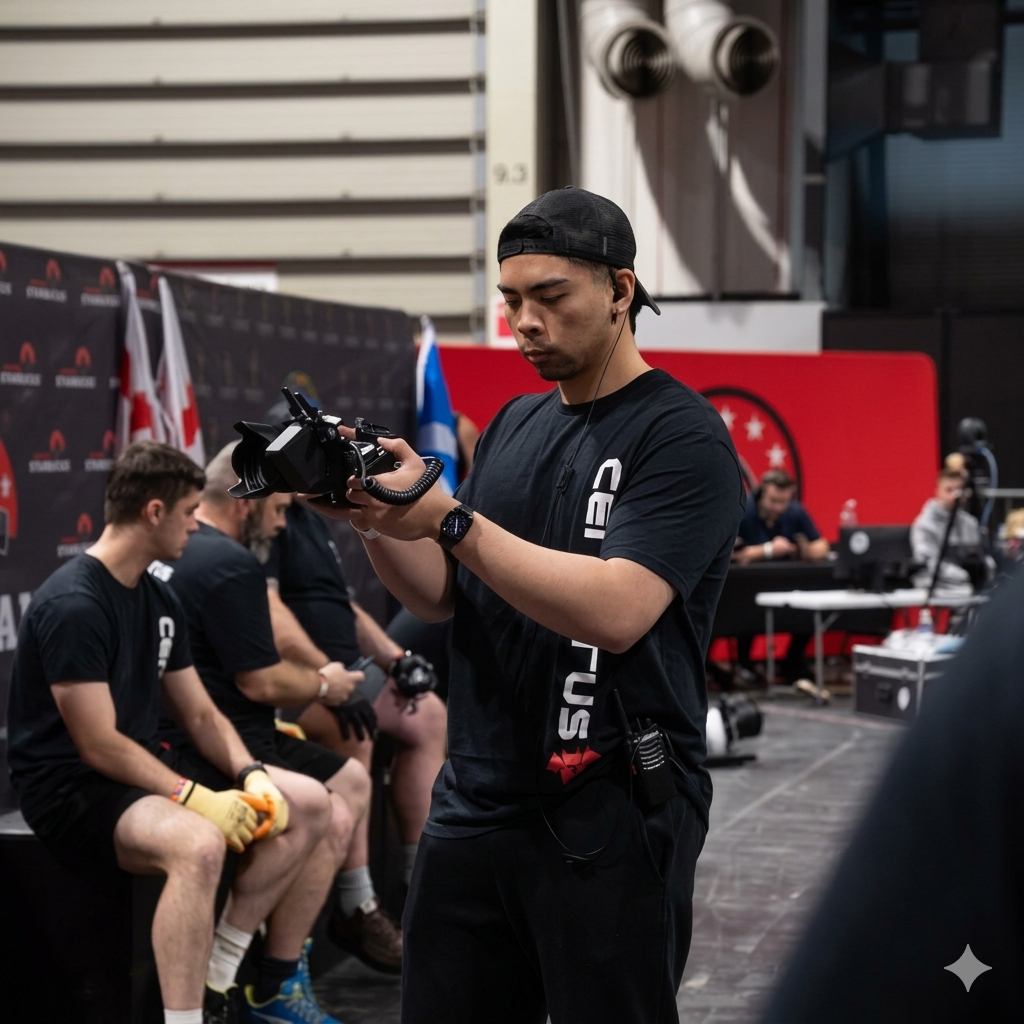
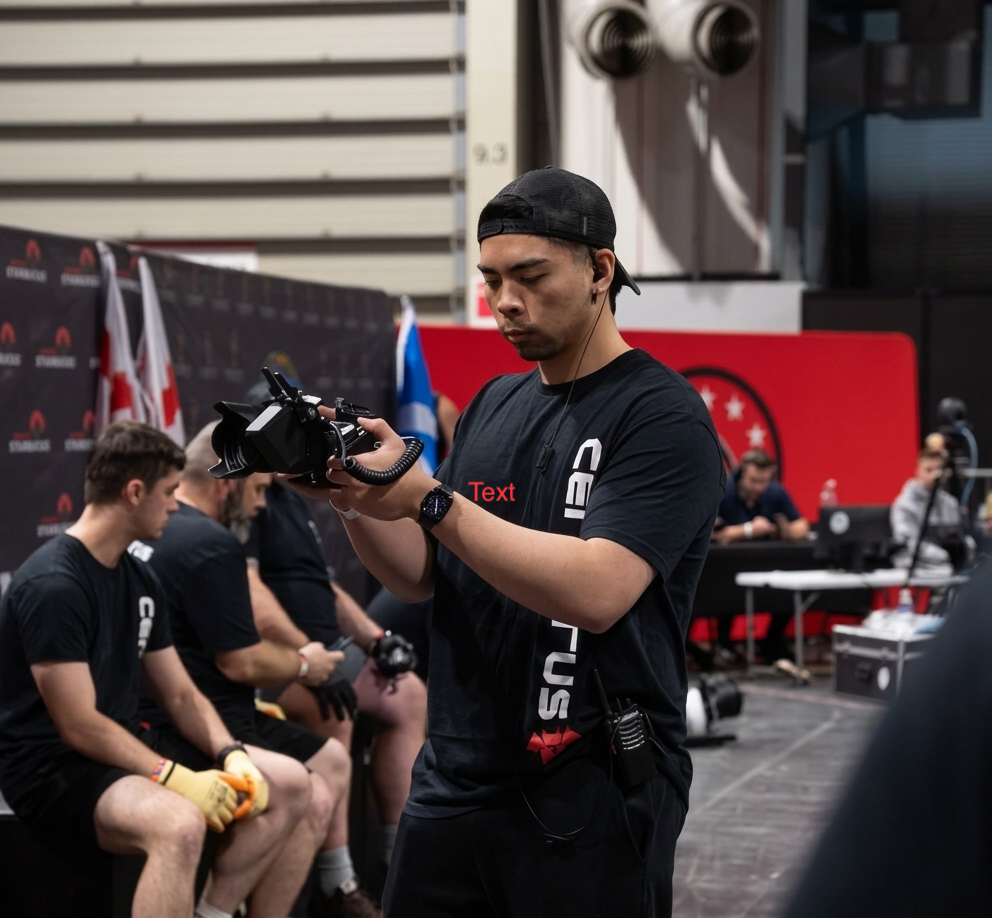
style: make page headings responsive and increase about image min-height
- update h1 on work, services, and products pages to text-4xl lg:text-7xl
- increase AboutMe image container min-h from 300px to 500px
- update me_work.png portrait asset

diff --git a/app/products/page.tsx b/app/products/page.tsx
@@ -4,7 +4,7 @@ const EventsPage = () => {
   return (
     <div className="w-full">
       <section className="w-full px-8 pt-36">
-        <h1 className="text-black text-7xl tracking-tight leading-none">
+        <h1 className="text-black text-4xl lg:text-7xl tracking-tight leading-none">
           Products
         </h1>
       </section>

diff --git a/app/services/page.tsx b/app/services/page.tsx
@@ -6,7 +6,7 @@ const ServicesPage = () => {
   return (
     <div className="w-full">
       <section className="w-full px-8 pt-36">
-        <h1 className="text-black text-7xl tracking-tight leading-none">
+        <h1 className="text-black text-4xl lg:text-7xl tracking-tight leading-none">
           Services
         </h1>
       </section>

diff --git a/app/work/page.tsx b/app/work/page.tsx
@@ -9,7 +9,7 @@ const Work = async () => {
   return (
     <div className="w-full">
       <section className="w-full px-8 pt-36">
-        <h1 className="text-black text-7xl sm:text-8xl lg:text-7xl  tracking-tight leading-none">
+        <h1 className="text-black text-4xl lg:text-7xl tracking-tight leading-none">
           Films
         </h1>
       </section>

diff --git a/components/about/about.component.tsx b/components/about/about.component.tsx
@@ -75,7 +75,7 @@ const AboutMe = () => {
             </form>
           </Dialog>
         </div>
-        <div className="flex-1 relative min-h-[300px]">
+        <div className="flex-1 relative min-h-[500px]">
           <Image
             src="/me_work.png"
             alt="Portrait of Shuacap or studio setup"